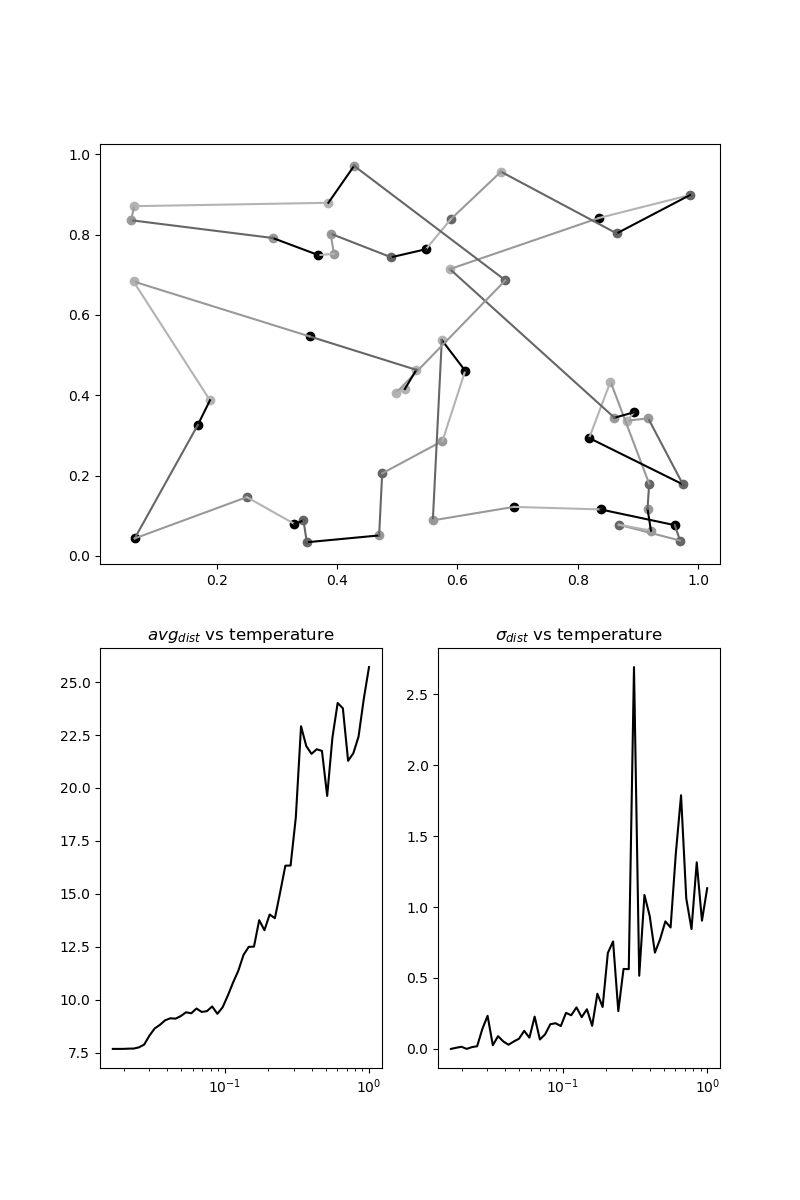
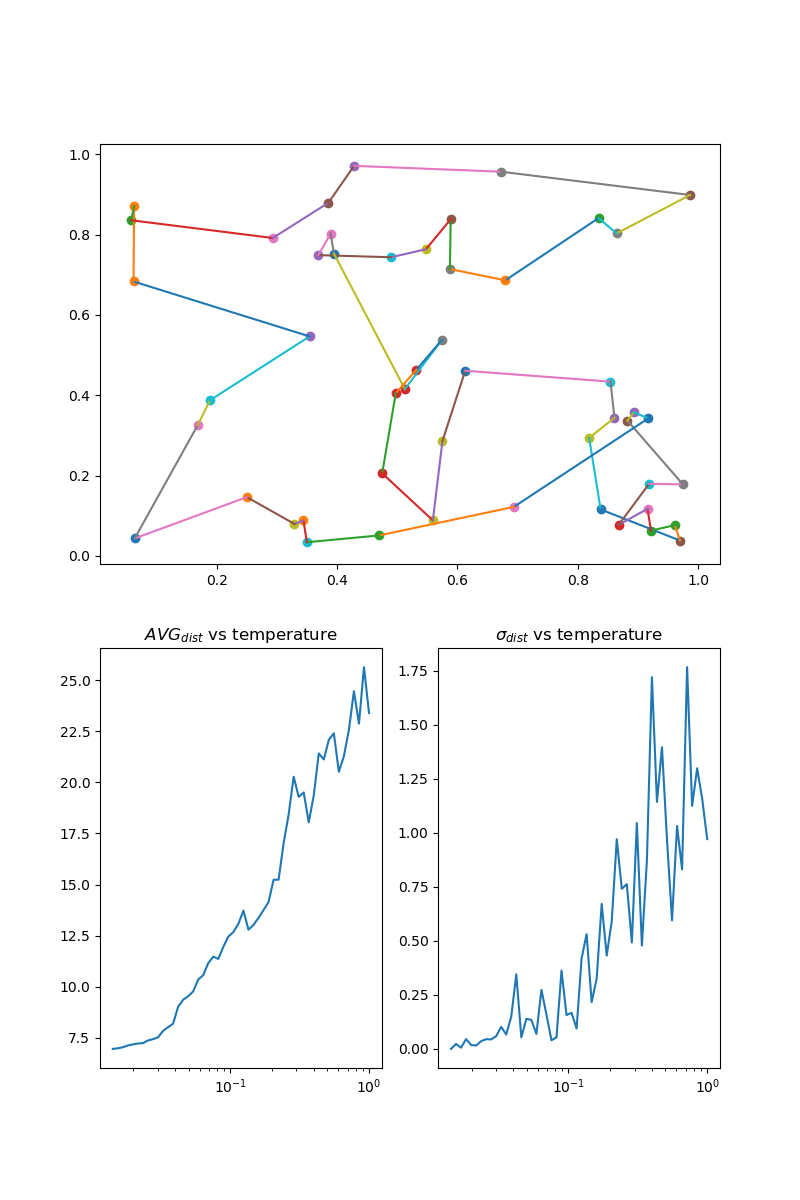
Only aesthetic changes

diff --git a/optimiser.py b/optimiser.py
@@ -7,25 +7,34 @@ from tour import Tour
 from world import World
 
 
-def sa_solution(world: World, n_mc_samples: int = -1, neighbourhood: int = 2,
-                init_temperature: float = -1, cooling_factor: float = 0.9, rising_mc: bool = True,
-                show_steps: bool = False, save_final_step: bool = False):
+def sa_solution(world: World,
+                n_mc_samples: int = -1,
+                neighbourhood: int = 2,
+                init_temperature: float = -1,
+                cooling_factor: float = 0.9,
+                rising_mc: bool = True,
+                show_steps: bool = False,
+                title = None):
+
     # Initial distance save for first calculation of diff_average
+    #
     init_distance = world.tour.distance
     
     # Initialise lists to use for plotting later
+    #
     temperature_list = []
     avg_distance_list = []
     stdev_distance_list = []
     
     # Initialise the multiplication factor for n_mc_samples
+    #
     if rising_mc:
         rising_mc_factor = cooling_factor**-1
     else:
         rising_mc_factor = 1
-        
     
     # Initialise the temperature
+    #
     if init_temperature < 0:
         init_temperature = world.n_cities / 8
     if n_mc_samples < 0:
@@ -33,15 +42,18 @@ def sa_solution(world: World, n_mc_samples: int = -1, neighbourhood: int = 2,
     temperature = init_temperature
     
     # Generate shuffled swap and reverse lists
+    #
     swap_list = generate_swaplist(world.n_cities, neighbourhood)
     reverse_list = generate_reverselist(world.n_cities)
     np.random.shuffle(swap_list)
     np.random.shuffle(reverse_list)
     
     # Calculate maximum amount of MC samples
+    #
     max_n_mc_samples = len(swap_list) + len(reverse_list)
 
     # Aesthetics
+    #
     print("==============")
     print("Starting simulated annealing with variables:")
     print(r"n_samples: {}, T_i: {}, f_c: {}, neighb.: {}".
@@ -59,6 +71,7 @@ def sa_solution(world: World, n_mc_samples: int = -1, neighbourhood: int = 2,
         new_sample_found = False
         
         # Go to the start of the lists since a new sample has just been found
+        #
         swap_list_counter = 0
         reverse_list_counter = 0
         
@@ -69,6 +82,7 @@ def sa_solution(world: World, n_mc_samples: int = -1, neighbourhood: int = 2,
             candidate_world = copy.deepcopy(world)
 
             # Choose between two methods for finding a new trial state
+            #
             if np.random.rand() < border:
                 swap = swap_list[swap_list_counter]
                 candidate_world.tour.swap_cities(swap)
@@ -81,22 +95,26 @@ def sa_solution(world: World, n_mc_samples: int = -1, neighbourhood: int = 2,
             new_distance = candidate_world.tour.distance
 
             # Check whether to acccept the new state
+            #
             if accept(current_distance, new_distance, temperature):
                 new_sample_found = True
                 world = copy.deepcopy(candidate_world)
                 
                 # Shuffle the lists and start all over again since previously
                 # skipped trials may now result in a lower energy.
+                #
                 np.random.shuffle(swap_list)
                 np.random.shuffle(reverse_list)
                 swap_list_counter = 0
                 reverse_list_counter = 0
                 
                 # Reset border
+                #
                 border = 0.5
             else:
                 # If all swaps or reverse directions are done, only the other
                 # method is used in the future.
+                #
                 if swap_list_counter == len(swap_list) and reverse_list_counter == len(reverse_list):
                     print("Tried all possible swaps and reverses.")
                     border = 0.5  # this does not matter since the loop will be stopped
@@ -118,6 +136,7 @@ def sa_solution(world: World, n_mc_samples: int = -1, neighbourhood: int = 2,
         stdev_distance_list.append(np.std(epoch_distances))
 
         # Calculate the difference before and after the epoch
+        #
         if epochs == 0:
             diff_average = avg_distance_list[-1] - init_distance
         else:
@@ -128,13 +147,14 @@ def sa_solution(world: World, n_mc_samples: int = -1, neighbourhood: int = 2,
             trend = "--"
         else:
             trend = "/\\"
-        print("{0:3.3f}\t\t{1:d}\t\t{2:3.3f}  {3}".format(temperature, n_mc_samples, avg_distance_list[-1], trend))
+        print("\r", "{0:3.3f}\t\t\t{1:d}\t\t\t\t{2:3.3f}  {3}".format(temperature, n_mc_samples, avg_distance_list[-1], trend), end='')
 
         if show_steps:
             world.show()
             plt.pause(0.1)
 
         # Update temperature and the amount of MC samples
+        #
         temperature *= cooling_factor
         if temperature < 0.25:
             n_mc_samples = int(rising_mc_factor * n_mc_samples)
@@ -145,8 +165,8 @@ def sa_solution(world: World, n_mc_samples: int = -1, neighbourhood: int = 2,
 #        print(tour_cities)
         epochs += 1
         
-    if save_final_step:
-        world.show_withplots(temperature_list, avg_distance_list, stdev_distance_list)
+    if title:
+        world.show_withplots(temperature_list, avg_distance_list, stdev_distance_list, title=title)
 
     return world
 

diff --git a/run.py b/run.py
@@ -3,11 +3,10 @@ import optimiser
 
 my_world = World(50)
 optimised_world = optimiser.sa_solution(world = my_world,  
-                                        n_mc_samples = 100, 
+                                        n_mc_samples = 300,
                                         neighbourhood = 2,
-                                        init_temperature = 1, 
+                                        init_temperature = 1.0,
                                         cooling_factor = 0.92,
                                         rising_mc = False,
                                         show_steps = False,
-                                        save_final_step = True)
-optimised_world.show(title = '1')
+                                        title = 'plotje.jpg')
